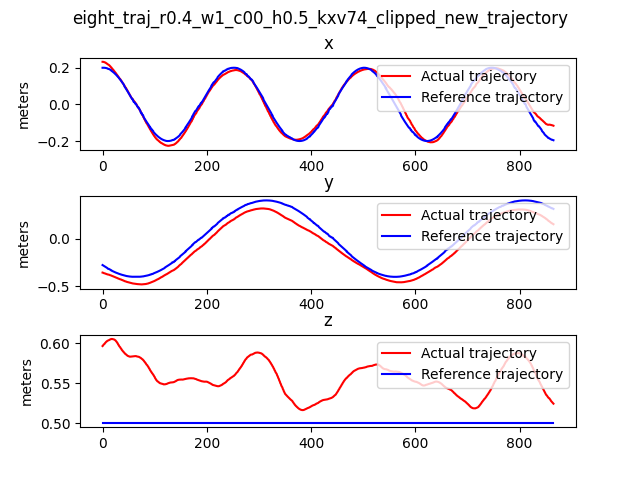
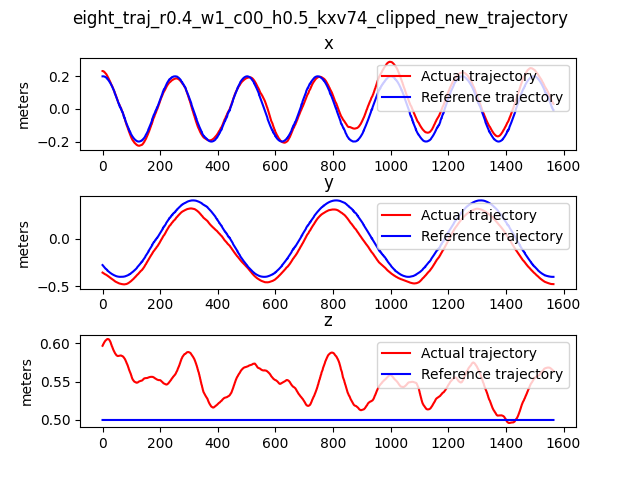
figure8 (0.0,0.0)

diff --git a/GP/gp_advanced/plot_trajectory_ref.py b/GP/gp_advanced/plot_trajectory_ref.py
@@ -45,7 +45,7 @@ home_path = home_path + 'circle_data/'
 # bag_path = home_path + '28_07_2024_take1_cir_traj_r0.4_w1.0_c0.60_h0.5_kxv7_00_4_00_tank_0_31_fanoff_clipped_new'
 # bag_path = home_path + '28_07_2024_take1_cir_traj_r0.4_w1.0_c0.60_h0.5_kxv7_00_4_00_tank_0_31_fanon_clipped_new'
 # (500,800)
-bag_path = home_path + '28_07_2024_take1_cir_traj_r0.4_w1.0_c0.60_h0.5_kxv14_81_7_25_tank_0_31_fanon_clipped_new'
+# bag_path = home_path + '28_07_2024_take1_cir_traj_r0.4_w1.0_c0.60_h0.5_kxv14_81_7_25_tank_0_31_fanon_clipped_new'
 # bag_path = home_path + '28_07_2024_take1_cir_traj_r0.4_w1.0_c0.60_h0.5_kxv18_86_8_93_tank_0_31_fanon_clipped_new'
 
 
@@ -130,7 +130,7 @@ home_path = home_path.replace('circle_data', 'eight_data')
 
 
 
-# bag_path = home_path + 'eight_traj_r0.4_w1_c00_h0.5_kxv74_clipped_new'
+bag_path = home_path + 'eight_traj_r0.4_w1_c00_h0.5_kxv74_clipped_new'
 # (500,500)
 
 # bag_path = home_path + 'eight_traj_r0.4_w1_c0.80_h0.5_kxv74_clipped_new'
@@ -246,8 +246,8 @@ with Reader(bag_path) as reader:
 # print("z max: ", max(z_data))
 # print("z min: ", min(z_data))
 assert len(x_data) == len(y_data) == len(z_data), "Lengths of the lists are not the same."
-cutoff = len(x_data) - 1000
-threshold = 00
+cutoff = len(x_data) - 500
+threshold = 500
 
 
 print("cutoff, threshold = ", cutoff, threshold)
@@ -261,14 +261,14 @@ y = np.array(y_data[threshold:cutoff])
 z = np.array(z_data[threshold:cutoff])
 if save :
     stacked_array = np.column_stack((x,y,z))
-    np.save('compare_trajectory/optimized_trajectory_cir_traj_r0.4_w1.0_c0.60_h0.5_kxv14_81_7_25.npy',stacked_array)
+    np.save('compare_trajectory/figure8/unoptimized_trajectory_eight_traj_r0.4_w1_c00_h0.5_kxv74.npy',stacked_array)
 #print("size of x data is: ",x.shape)
 x_t = x_ideal = np.array(x_ideal[threshold:cutoff])
 y_t = y_ideal = np.array(y_ideal[threshold:cutoff])
 z_t = z_ideal = np.array(z_ideal[threshold:cutoff])
 if save : 
     stacked_array = np.column_stack((x_t,y_t,z_t))
-    np.save('compare_trajectory/ideal_trajectory_cir_traj_r0.4_w1.0_c0.60_h0.5_kxv14_81_7_25.npy',stacked_array)
+    np.save('compare_trajectory/figure8/ideal_trajectory_eight_traj_r0.4_w1_c00_h0.5_kxv14_81_7_09_.npy',stacked_array)
 # Scatter plot
 ax.set_zlim(0,1)
 ax.scatter(x, y, z, c= 'r')

diff --git a/GP/gp_advanced/animate_trajectory_individual.py b/GP/gp_advanced/animate_trajectory_individual.py
@@ -8,10 +8,10 @@ ax = fig.add_subplot(111, projection='3d')
 ax.set_xlim(-0.5,0.5)
 ax.set_ylim(0,1.1)
 ax.set_zlim(0,1)
-specifier = 'cir_traj_r0.4_w1.0_c0.60_h0.5_kxv14_81_7_25'
-ideal_array = np.load('compare_trajectory/ideal_trajectory_'+ specifier+'.npy')
-unoptimized_array = np.load('compare_trajectory/unoptimized_trajectory_cir_traj_r0.4_w1.0_c0.60_h0.5_kxv74.npy')
-optimized_array = np.load('compare_trajectory/optimized_trajectory_'+specifier+'.npy')
+specifier = 'eight_traj_r0.4_w1_c00_h0.5_kxv14_81_7_09_'
+ideal_array = np.load('compare_trajectory/figure8/ideal_trajectory_'+ specifier+'.npy')
+unoptimized_array = np.load('compare_trajectory/figure8/unoptimized_trajectory_eight_traj_r0.4_w1_c00_h0.5_kxv74.npy')
+optimized_array = np.load('compare_trajectory/figure8/optimized_trajectory_'+specifier+'.npy')
 # x = np.linspace(0,5,5000)
 # y = np.ones(x.shape)
 # z = 5* np.ones(x.shape)
